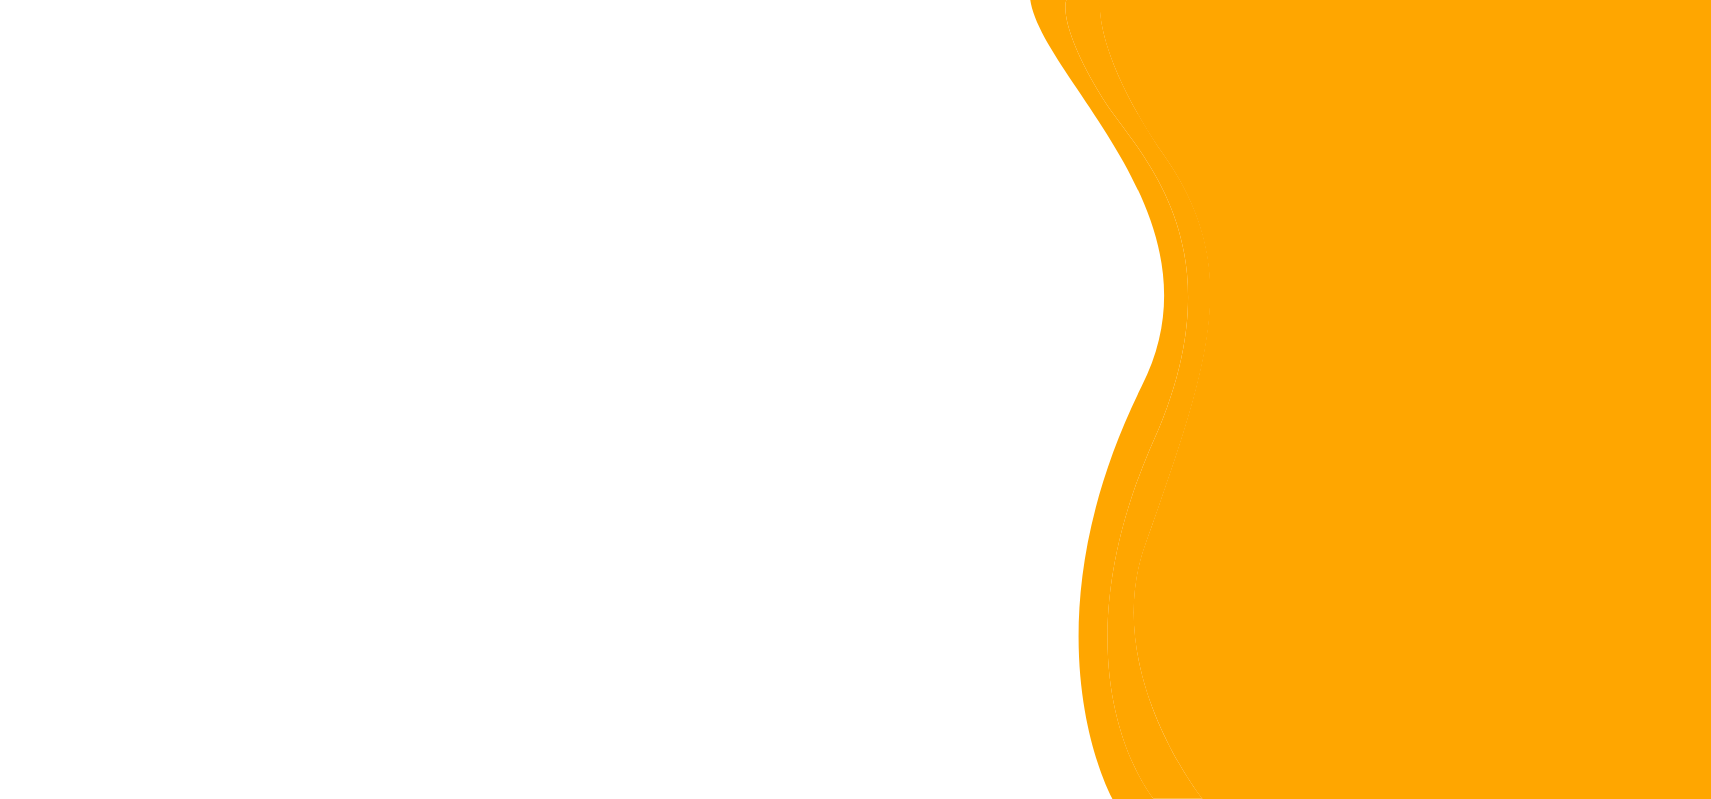
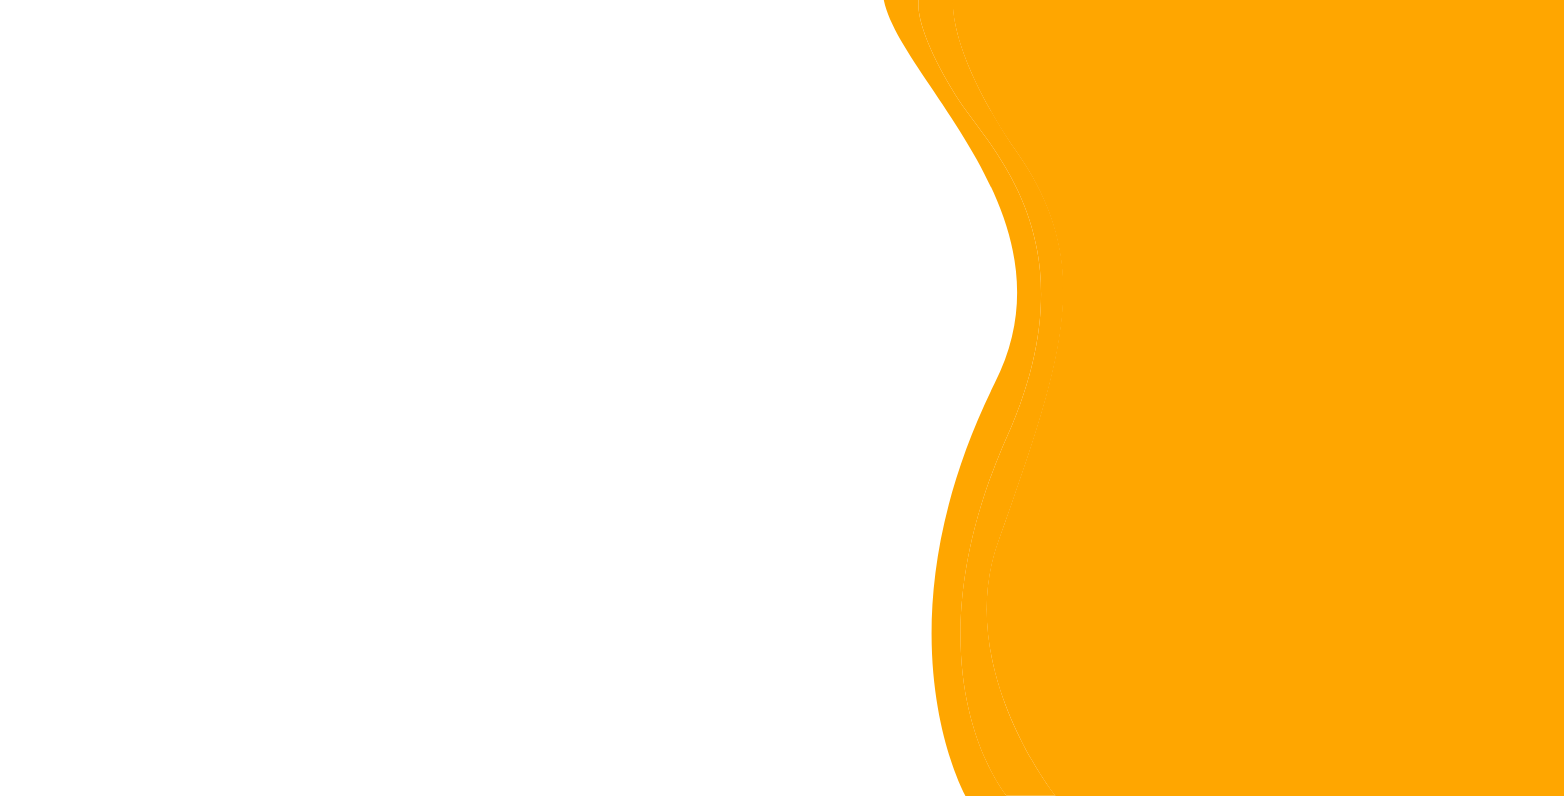
Add files via upload
including third and fourth section

Changed region(s): [[0.5524, 0.0, 0.7059, 1.0]]

diff --git a/styles.scss b/styles.scss
@@ -25,7 +25,7 @@ main {
     padding: 0 120px;
     background-image: url("./image/design-banner.png");
     background-repeat: no-repeat;
-    background-size: 100%;
+    background-size: contain;
     .header {
         display: flex;
         justify-content: space-between;
@@ -77,6 +77,9 @@ main {
                 li {
                     margin: 15px 0;
                 }
+                li::before {
+                    content: " ✓ ";
+                }
             }
             .buttons {
                 margin: 25px 0 25px 45px;
@@ -98,7 +101,7 @@ main {
             align-items: center;
             flex-direction: column;
             img {
-                width: 620px;
+                width: 100%;
                 filter: drop-shadow(-2px 0 5px rgb(194, 182, 182));
                 margin-bottom: 20px;
             }
@@ -106,7 +109,7 @@ main {
     }
     .second-section {
         display: flex;
-        padding-bottom: 30px;
+        padding: 60px 0;
         .cheff-pic {
             width: 50%;
             margin: auto 0;
@@ -135,10 +138,81 @@ main {
                 li {
                     margin: 15px 0;
                 }
+                li::before {
+                    content: " ✓ ";
+                }
             }
             button {
                 @include style-btn();
                 @include style-orange-color-btn()
+            }
+        }
+    }
+    .third-section {
+        margin: 40px 0;
+        h2 {
+            font-size: 40px;
+            text-align: center;
+            margin-bottom: 30px;
+        }
+        .category {
+            display: flex;
+            height: 650px;
+            .list {
+                display: flex;
+                width: 100%;
+                li {
+                    width: 25%;
+                    margin: 15px;
+                    img {
+                        width: 100%;
+                        height: 350px;
+                        border-radius: 40px;
+                    }
+                }
+            }
+        }
+    }
+    .fourth-section {
+        height: 100vh;
+        h2 {
+            font-size: 40px;
+            text-align: center;
+            margin-bottom: 30px;
+        }
+        .list-menu {
+            display: flex;
+            width: 100%;
+            li {
+                width: 25%;
+                height: 500px;
+                margin: 15px;
+                display: flex;
+                justify-content: flex-start;
+                flex-direction: column;
+                align-items: center;
+                box-shadow: -3px 2px 5px rgb(185, 184, 184);
+                border-radius: 150px;
+                img {
+                    width: 270px;
+                    margin: 6px 0 30px 0;
+                }
+                .price {
+                    text-align: center;
+                    h4 {
+                        margin-bottom: 15px;
+                    }
+                    p {
+                        margin-bottom: 15px;
+                    }
+                    .quantity {
+                        display: block;
+                        margin-bottom: 10px;
+                    }
+                    .total-price {
+                        font-weight: bold;
+                    }
+                }
             }
         }
     }

diff --git a/index.html b/index.html
@@ -75,6 +75,68 @@
                 <button class="btn-about">About Us</button>
             </div>
         </section>
+        <section class="third-section">
+            <h2>Food Categories</h2>
+            <div class="category">
+                <ul class="list">
+                    <li>
+                        <img src="./image/brakfast.png" alt=""> Breakfast
+                    </li>
+                    <li>
+                        <img src="./image/brunch.png" alt=""> Brunch
+                    </li>
+                    <li>
+                        <img src="./image/lubch.png" alt=""> Lunch
+                    </li>
+                    <li>
+                        <img src="./image/drink.png" alt=""> Drinks
+                    </li>
+                </ul>
+            </div>
+        </section>
+        <section class="fourth-section">
+            <h2>Today's Special</h2>
+            <div class="dishers">
+                <ul class="list-menu">
+                    <li>
+                        <img src="./image/prato1-removebg-preview (1).png" alt="">
+                        <div class="price">
+                            <h4>Lorem Ipsum</h4>
+                            <p>Rice with crawn</p>
+                            <span class="quantity">2 persons</span>
+                            <span class="total-price">$24,00</span>
+                        </div>
+                    </li>
+                    <li>
+                        <img src="./image/prato2-removebg-preview (1).png" alt="">
+                        <div class="price">
+                            <h4>Lorem Ipsum</h4>
+                            <p>Rice with crawn</p>
+                            <span class="quantity">2 persons</span>
+                            <span class="total-price">$24,00</span>
+                        </div>
+                    </li>
+                    <li>
+                        <img src="./image/prato3-removebg-preview (1).png" alt="">
+                        <div class="price">
+                            <h4>Lorem Ipsum</h4>
+                            <p>Rice with crawn</p>
+                            <span class="quantity">2 persons</span>
+                            <span class="total-price">$24,00</span>
+                        </div>
+                    </li>
+                    <li>
+                        <img src="./image/prato4-removebg-preview (1).png" alt="">
+                        <div class="price">
+                            <h4>Lorem Ipsum</h4>
+                            <p>Rice with crawn</p>
+                            <span class="quantity">2 persons</span>
+                            <span class="total-price">$24,00</span>
+                        </div>
+                    </li>
+                </ul>
+            </div>
+        </section>
     </main>
 
     <script>

diff --git a/styles.css b/styles.css
@@ -1,3 +1,4 @@
+@charset "UTF-8";
 * {
   margin: 0;
   padding: 0;
@@ -11,7 +12,7 @@ main {
   padding: 0 120px;
   background-image: url("./image/design-banner.png");
   background-repeat: no-repeat;
-  background-size: 100%;
+  background-size: contain;
 }
 main .header {
   display: flex;
@@ -65,6 +66,9 @@ main .first-section .title-box .info {
 main .first-section .title-box .info li {
   margin: 15px 0;
 }
+main .first-section .title-box .info li::before {
+  content: " ✓ ";
+}
 main .first-section .title-box .buttons {
   margin: 25px 0 25px 45px;
 }
@@ -89,13 +93,13 @@ main .first-section .picture-img {
   flex-direction: column;
 }
 main .first-section .picture-img img {
-  width: 620px;
+  width: 100%;
   filter: drop-shadow(-2px 0 5px #c2b6b6);
   margin-bottom: 20px;
 }
 main .second-section {
   display: flex;
-  padding-bottom: 30px;
+  padding: 60px 0;
 }
 main .second-section .cheff-pic {
   width: 50%;
@@ -127,6 +131,9 @@ main .second-section .about-section .info-list-about {
 main .second-section .about-section .info-list-about li {
   margin: 15px 0;
 }
+main .second-section .about-section .info-list-about li::before {
+  content: " ✓ ";
+}
 main .second-section .about-section button {
   padding: 17px 60px;
   border-radius: 15px;
@@ -134,4 +141,72 @@ main .second-section .about-section button {
   color: #fff;
   cursor: pointer;
   background-color: #ffa600;
+}
+main .third-section {
+  margin: 40px 0;
+}
+main .third-section h2 {
+  font-size: 40px;
+  text-align: center;
+  margin-bottom: 30px;
+}
+main .third-section .category {
+  display: flex;
+  height: 650px;
+}
+main .third-section .category .list {
+  display: flex;
+  width: 100%;
+}
+main .third-section .category .list li {
+  width: 25%;
+  margin: 15px;
+}
+main .third-section .category .list li img {
+  width: 100%;
+  height: 350px;
+  border-radius: 40px;
+}
+main .fourth-section {
+  height: 100vh;
+}
+main .fourth-section h2 {
+  font-size: 40px;
+  text-align: center;
+  margin-bottom: 30px;
+}
+main .fourth-section .list-menu {
+  display: flex;
+  width: 100%;
+}
+main .fourth-section .list-menu li {
+  width: 25%;
+  height: 500px;
+  margin: 15px;
+  display: flex;
+  justify-content: flex-start;
+  flex-direction: column;
+  align-items: center;
+  box-shadow: -3px 2px 5px #b9b8b8;
+  border-radius: 150px;
+}
+main .fourth-section .list-menu li img {
+  width: 270px;
+  margin: 6px 0 30px 0;
+}
+main .fourth-section .list-menu li .price {
+  text-align: center;
+}
+main .fourth-section .list-menu li .price h4 {
+  margin-bottom: 15px;
+}
+main .fourth-section .list-menu li .price p {
+  margin-bottom: 15px;
+}
+main .fourth-section .list-menu li .price .quantity {
+  display: block;
+  margin-bottom: 10px;
+}
+main .fourth-section .list-menu li .price .total-price {
+  font-weight: bold;
 }/*# sourceMappingURL=styles.css.map */
